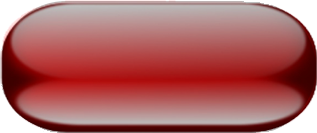
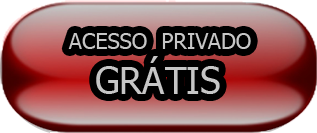
v1.1

diff --git a/lp-oga/index.html b/lp-oga/index.html
@@ -39,9 +39,9 @@
 		}
 
 		.first-block h2 {
-			font-size: 22pt;
+			font-size: 26pt;
 			text-align: center;
-			max-width: 430px;
+			max-width: 500px;
 		}
 
 		.first-block .img-holder {
@@ -53,7 +53,7 @@
 			background-size: 100%;
 		}
 		.first-block .video-holder, .first-block img {
-			max-width: 400px;
+			max-width: 530px;
 			margin-top:5px;
 		}
 
@@ -63,16 +63,17 @@
 			height:400px;
 			width:400px;
 			background-repeat: no-repeat;
+			margin-top:-30px;
 		}
 
 		.btn {
-			margin-left:120px;
+			margin-left:130px;
 			margin-top:80px;
 		}
 
 		.second-block {
 			background-image: url("img/background.png");
-			height:900px;
+			height:845px;
 			background-size:100%;
 			background-position-x: center;
 			background-position-y: center;
@@ -93,21 +94,18 @@
 			background-image: url("img/btn-bg.png");
 			background-size: 100%;
 			font-weight: 700;
-			color:#fff;
-			-webkit-text-stroke: 1px #000;
-			font-size: 14pt;
-			width:200px;
-			height:80px;
+			width:170px;
+			height:72px;
 			background-color:transparent;
 			border:none;
-			transition: transform 0.2s ease;
-			transition: background-image 0.2s ease;
+			/*transition: transform 0.2s ease;*/
+			transition: all 0.2s ease;
 		}
 
 		.btn-primary:hover {
 			border:none;
 			background-color: transparent;
-			transform: scale(1.1);
+			transform: scale(1.05);
 		}
 
 		.btn-primary:focus,
@@ -140,6 +138,20 @@
 			/*box-shadow: 0 0 0 .2rem rgba(91, 194, 194, 0.5)*/
 			box-shadow: 0 0 0 0;
 		}
+
+		.form-control {
+			max-height:35px;
+			margin: 0px 0px 0px 0px;
+		}
+
+		.form-group {
+			padding: 0px 0px 0px 0px;
+			/*margin-bottom:10px;*/
+		}
+/*
+		.form-group label {
+			margin: 0px 0px 0px 0px;
+		}*/
 		@media (max-width: 767px){
 			.first-block .video-holder, .first-block img {
 				max-width: 335px;
@@ -161,7 +173,7 @@
 				/* lembrar de mudar o bg e tamanho */
 				background-image: url("img/background-vert.png");
 				background-position-y:top;
-				height:1200px;
+				height:1100px;
 			}
 
 			.second-block .spaces {
@@ -178,7 +190,7 @@
 	<div class="first-block mt-5">
 		<div class="container">
 			<div class="row">
-				<div class="col-md-6">
+				<div class="col-md-8">
 					<h2 class="centering">
 						É importante que você assista o vídeo inteiro e atentamente
 						para compreender a proposta.
@@ -187,11 +199,11 @@
 					<div class="video-holder centering">
 						<!--<img src="img/video-thumb.png">-->
 						<div class="embed-responsive embed-responsive-16by9">
-							<iframe class="embed-responsive-item" src="https://www.youtube.com/embed/UF9LEGggCJU"></iframe>
+							<iframe class="embed-responsive-item" src="https://www.youtube.com/embed/UF9LEGggCJU?modestbranding=1&autohide=1&rel=0"></iframe>
 						</div>
 					</div>
 				</div>
-				<div class="col-md-6 mt-5 mt-md-0">
+				<div class="col-md-4 mt-5 mt-md-0">
 					<form>
 						<div class="form-group">
 							<label for="nome-input">Nome:</label>
@@ -208,7 +220,7 @@
 					</form>
 
 					<div class="button-bg centering">
-						<button class="btn btn-primary">ACESSO PRIVADO <BR> GRATIS</button>
+						<button class="btn btn-primary"></button>
 					</div>
 				</div>
 			</div>
@@ -217,7 +229,7 @@
 
 	<div class="second-block">
 		<div class="container">
-			<br><br><br><br><br>
+			<br><br><br><br><br><br><br><br><br><br><br>
 			<div class="spaces">
 				<br><br><br><br><br>
 			</div>
@@ -232,10 +244,11 @@
 					<p>
 						&quot;Eu ajudo jovens que têm sede de evolução a viverem a vida
 						dos sonhos, através da expansão de consciência alcançada nas 4 etapas
-						d'O Guia do Autoconhecimento&quot;
+						do O Guia do Autoconhecimento&quot;
 					</p>
 				</div>
 			</div>
+			<!--
 			<div class="row mt-3">
 				<form class="centering">
 					<span style="font-size: 22pt; text-shadow: 2px 2px #000;" class="text-center">Preencha para acessar </span>
@@ -256,6 +269,7 @@
 					</div>
 				</form>
 			</div>
+			-->
 		</div>
 	</div>
 
